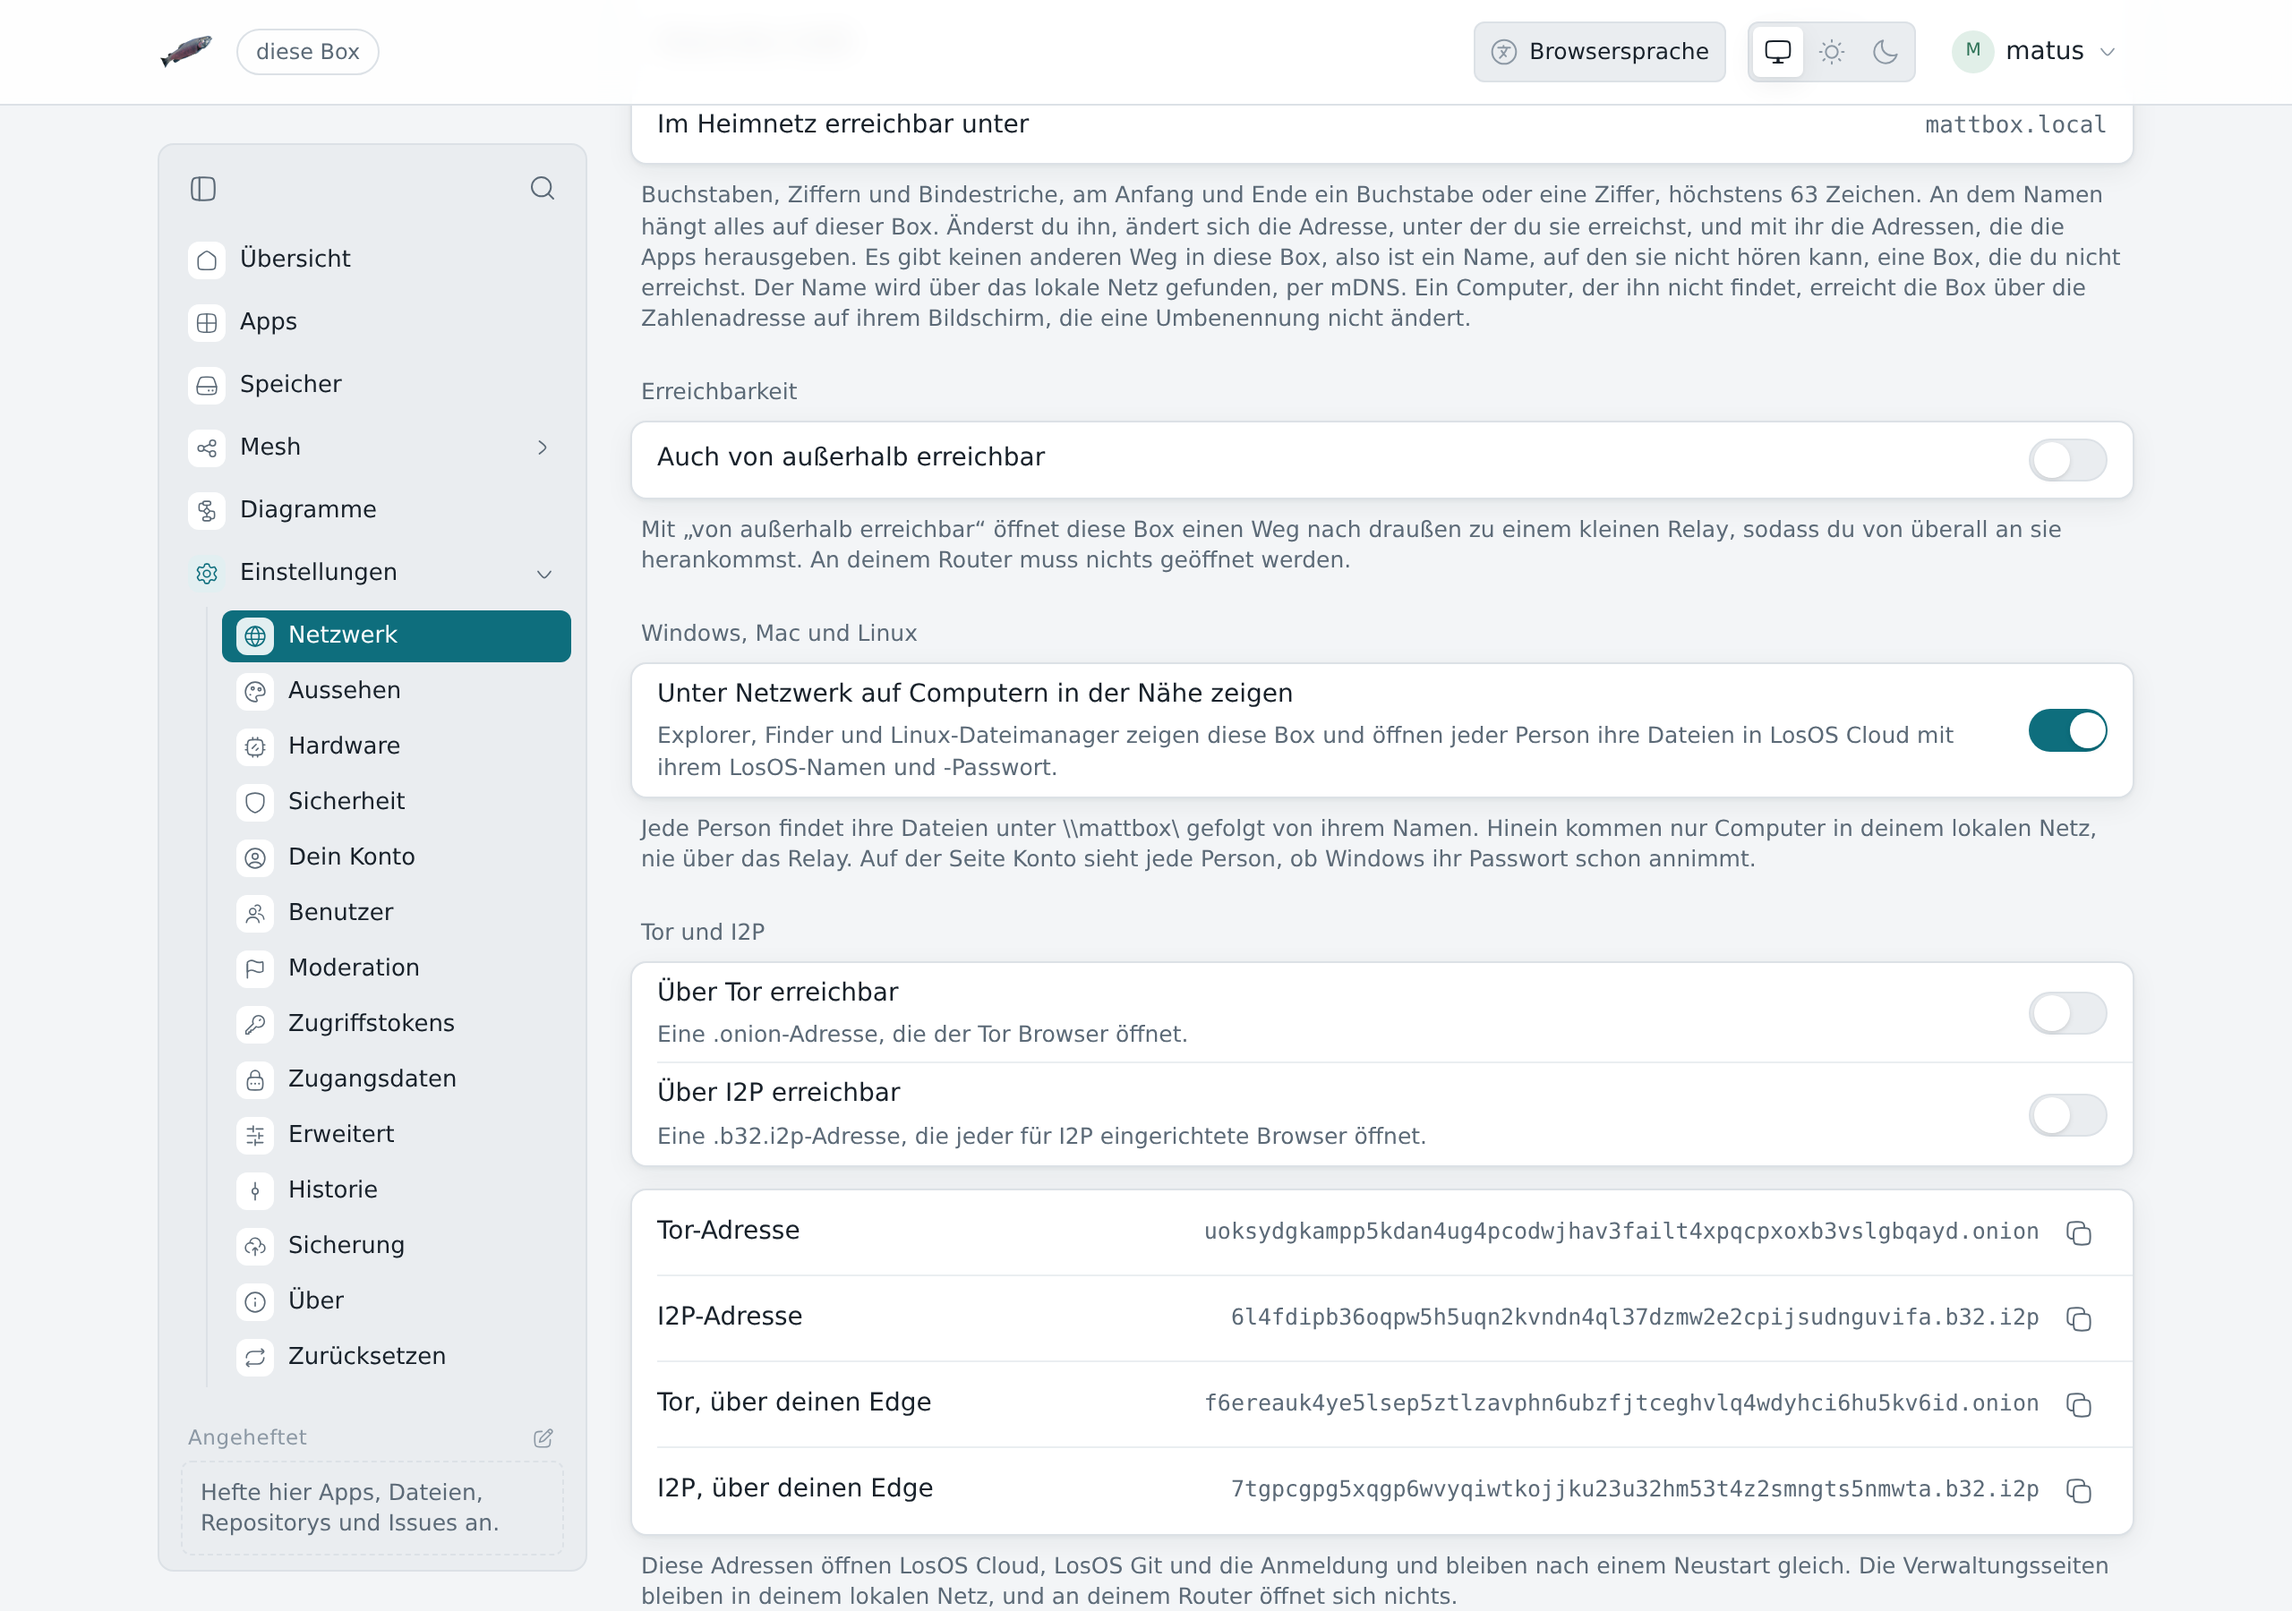
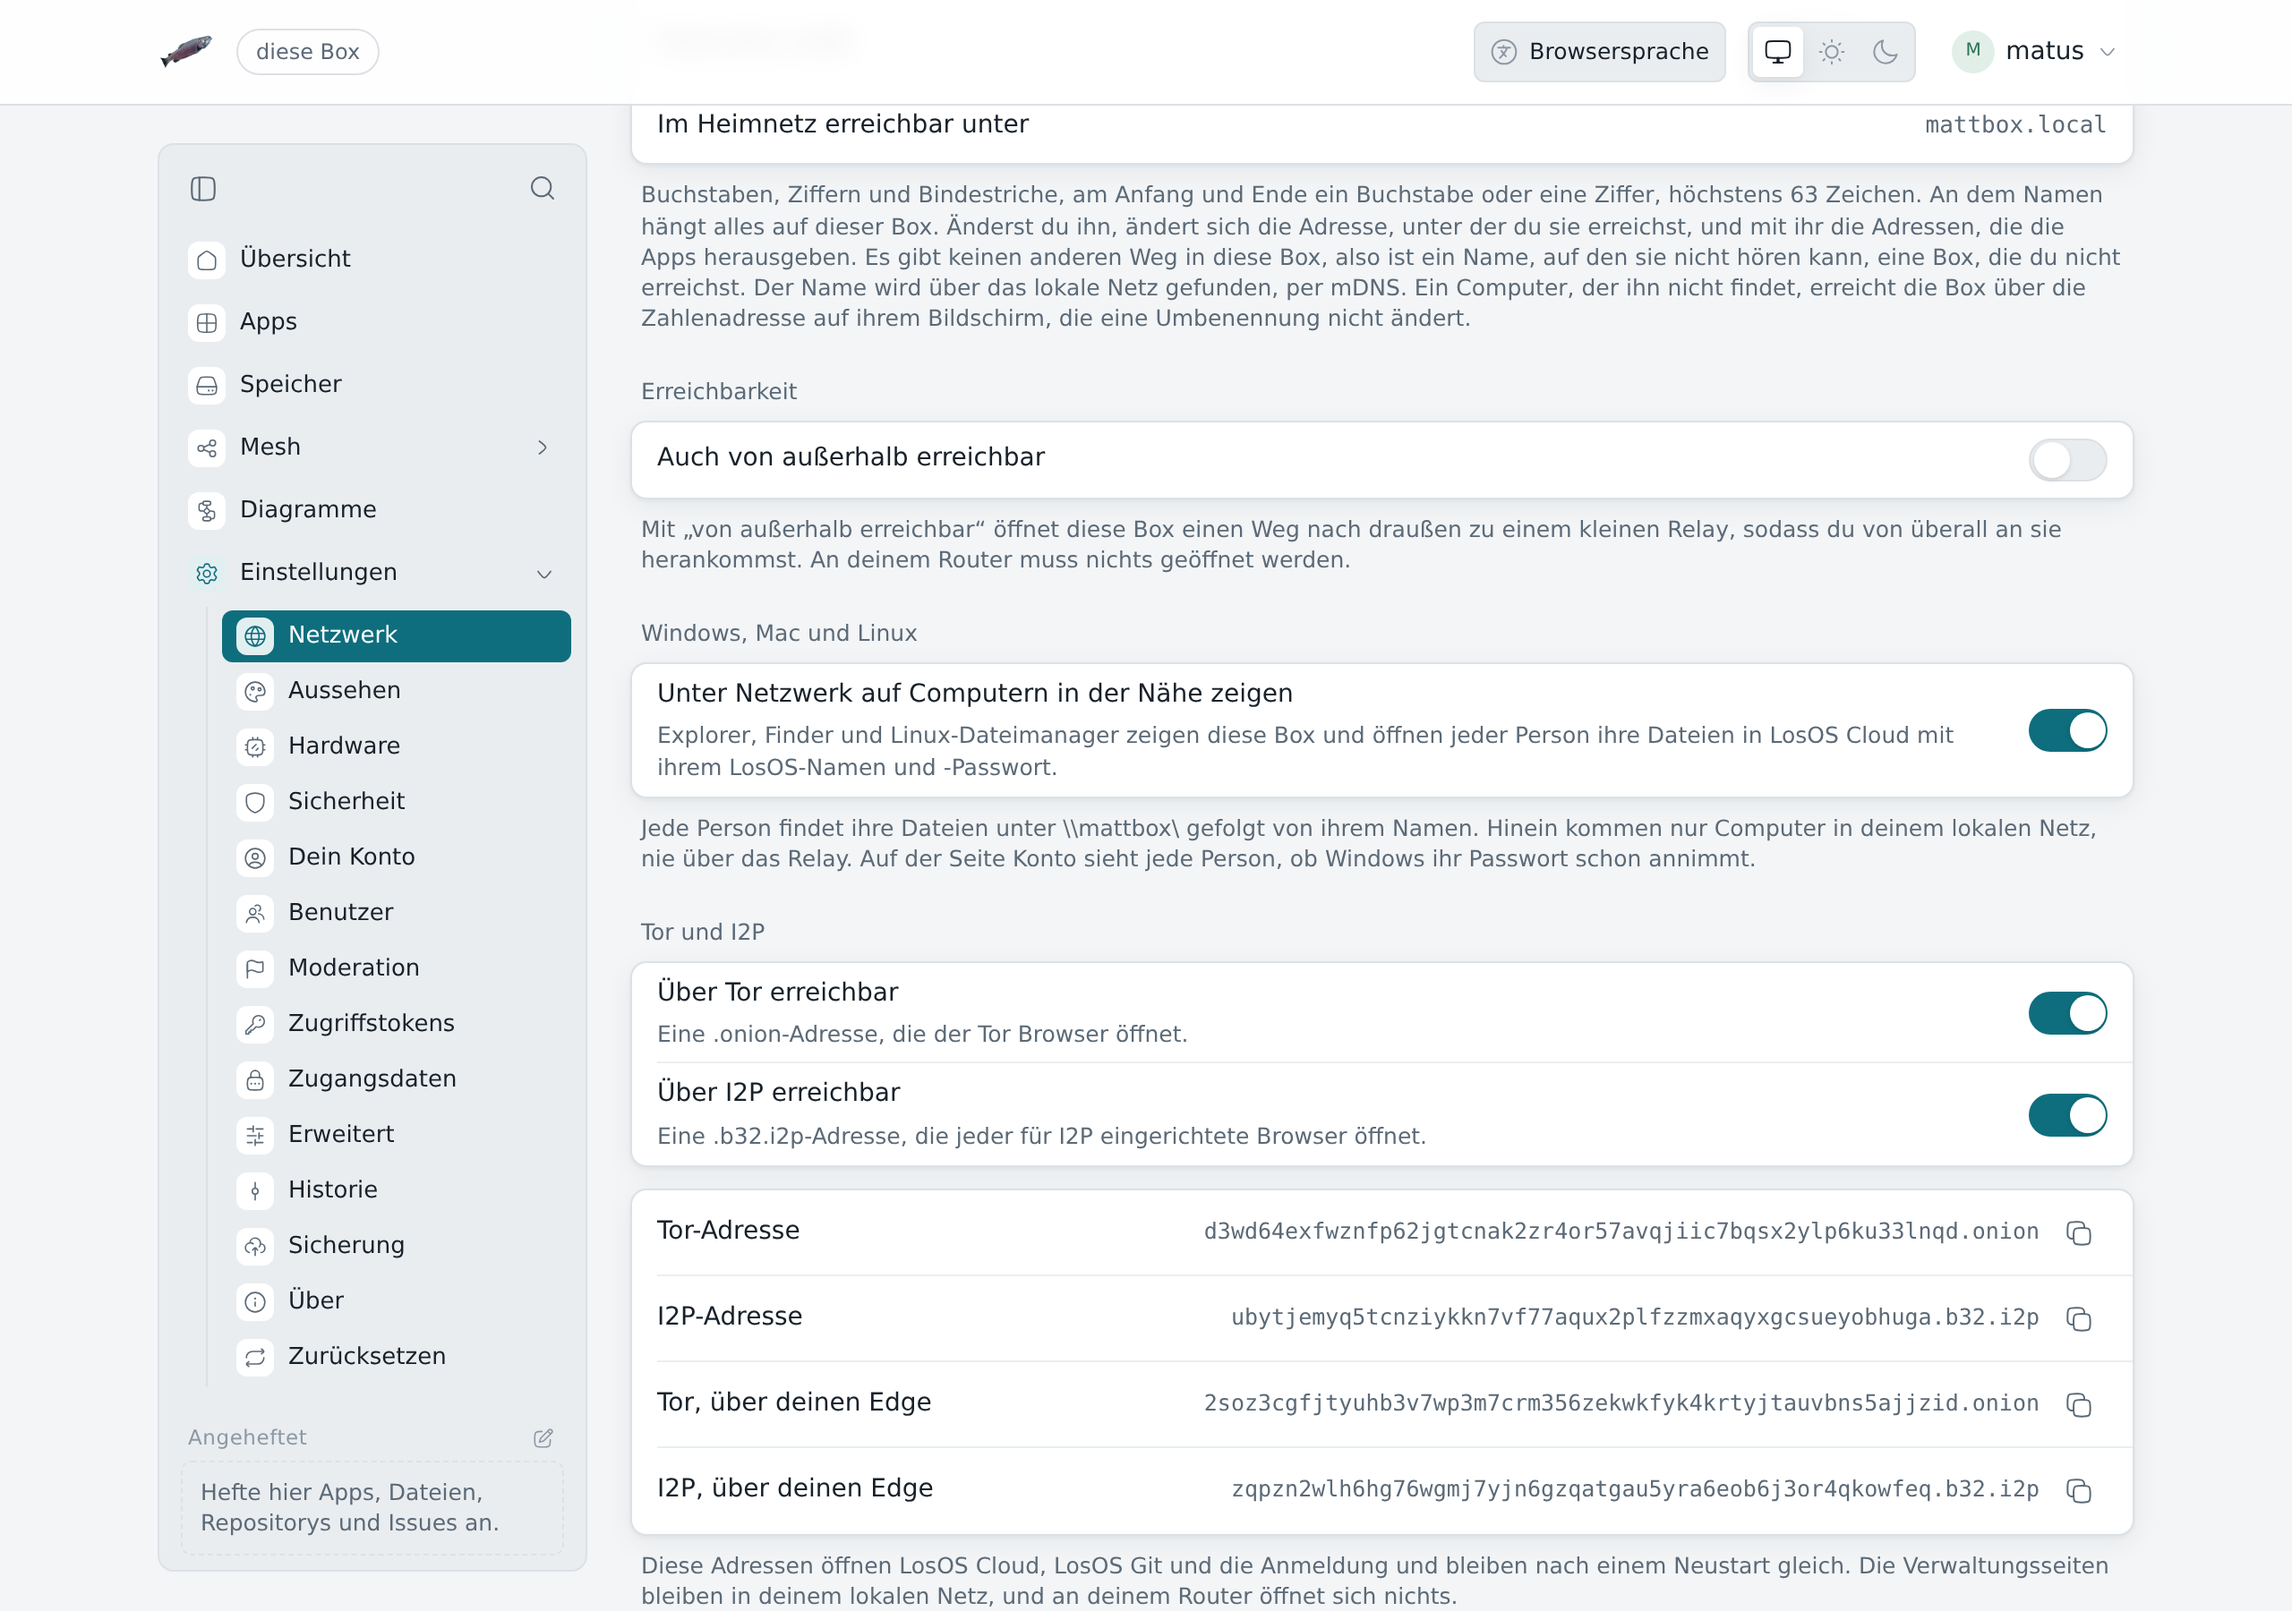
handbook: Tor and I2P pictures with both switches on, as a box set from the Network pane shows them

diff --git a/handbook/i18n/sk/docusaurus-plugin-content-docs/current/manual/tor-and-i2p.md b/handbook/i18n/sk/docusaurus-plugin-content-docs/current/manual/tor-and-i2p.md
@@ -25,7 +25,7 @@ Keď sa zariadenie prestavia, Tor vytvorí adresu za pár sekúnd a I2P asi za
 minútu. Dovtedy je v riadku **Vytvára sa…**. Potom sa adresy objavia na tej
 istej stránke, každá s tlačidlom, ktoré ju skopíruje.
 
-![Nastavenia, Sieť: Tor a I2P, vlastné adresy zariadenia .onion a .b32.i2p a dve adresy od jeho edge, každá s tlačidlom na kopírovanie.](@site/docs/img/tor-and-i2p-sk.png)
+![Nastavenia, Sieť: Tor a I2P s oboma zapnutými prepínačmi, vlastné adresy zariadenia .onion a .b32.i2p a dve adresy od jeho edge, každá s tlačidlom na kopírovanie.](@site/docs/img/tor-and-i2p-sk.png)
 
 Zariadenie si adresy necháva. Keď sieť vypnete a znova zapnete, vráti sa tá
 istá adresa, a aktualizácie ani reštarty ich nemenia.

diff --git a/handbook/i18n/de/docusaurus-plugin-content-docs/current/manual/tor-and-i2p.md b/handbook/i18n/de/docusaurus-plugin-content-docs/current/manual/tor-and-i2p.md
@@ -27,7 +27,7 @@ Sekunden und I2P in etwa einer Minute. Bis dahin steht in der Zeile **Wird
 erstellt…**. Danach erscheinen die Adressen auf derselben Seite, jede mit
 einem Knopf, der sie kopiert.
 
-![Einstellungen, Netzwerk: Tor und I2P, die eigenen .onion- und .b32.i2p-Adressen der Box und die zwei von ihrem Edge, jede mit einem Knopf zum Kopieren.](@site/docs/img/tor-and-i2p-de.png)
+![Einstellungen, Netzwerk: Tor und I2P mit beiden Schaltern an, die eigenen .onion- und .b32.i2p-Adressen der Box und die zwei von ihrem Edge, jede mit einem Knopf zum Kopieren.](@site/docs/img/tor-and-i2p-de.png)
 
 Die Box behält ihre Adressen. Schaltest du ein Netz aus und wieder ein,
 kommt dieselbe Adresse zurück, und Updates und Neustarts ändern sie nicht.

diff --git a/handbook/docs/manual/tor-and-i2p.md b/handbook/docs/manual/tor-and-i2p.md
@@ -24,7 +24,7 @@ Once the box has rebuilt, Tor makes its address within seconds and I2P
 within about a minute. Until then the row says **Being made…**. The
 addresses then appear on the same page, each with a button that copies it.
 
-![Settings, Network: Tor and I2P, the box's own .onion and .b32.i2p addresses, and the two its edge made, each with a copy button.](../img/tor-and-i2p.png)
+![Settings, Network: Tor and I2P with both switches on, the box's own .onion and .b32.i2p addresses, and the two its edge made, each with a copy button.](../img/tor-and-i2p.png)
 
 The box keeps its addresses. Turning a network off and on again brings back
 the same one, and updates and restarts leave them alone.
